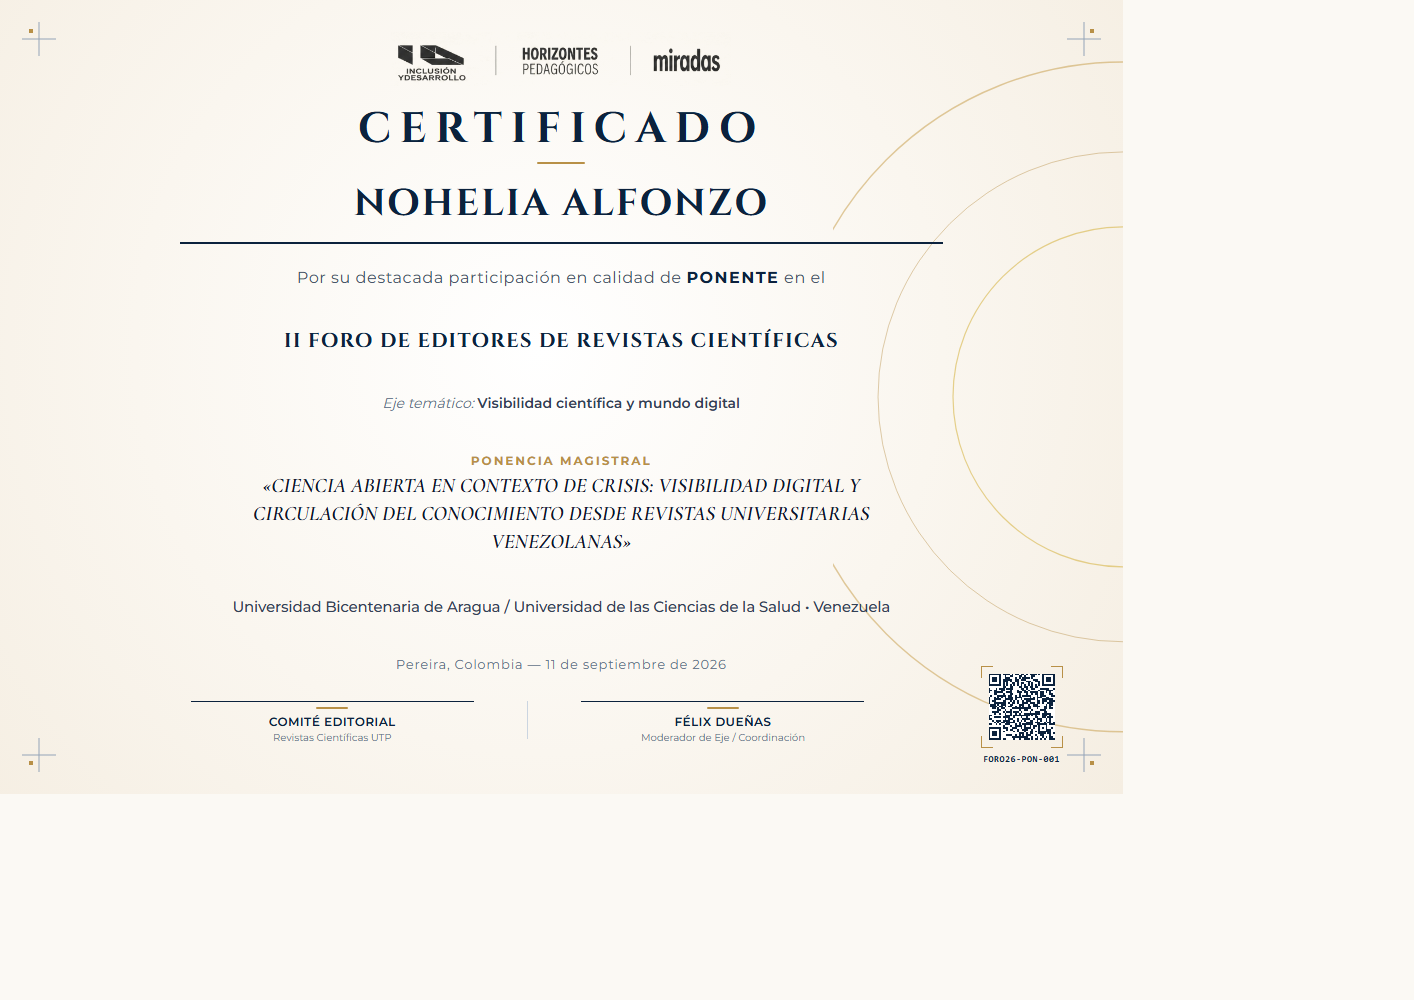
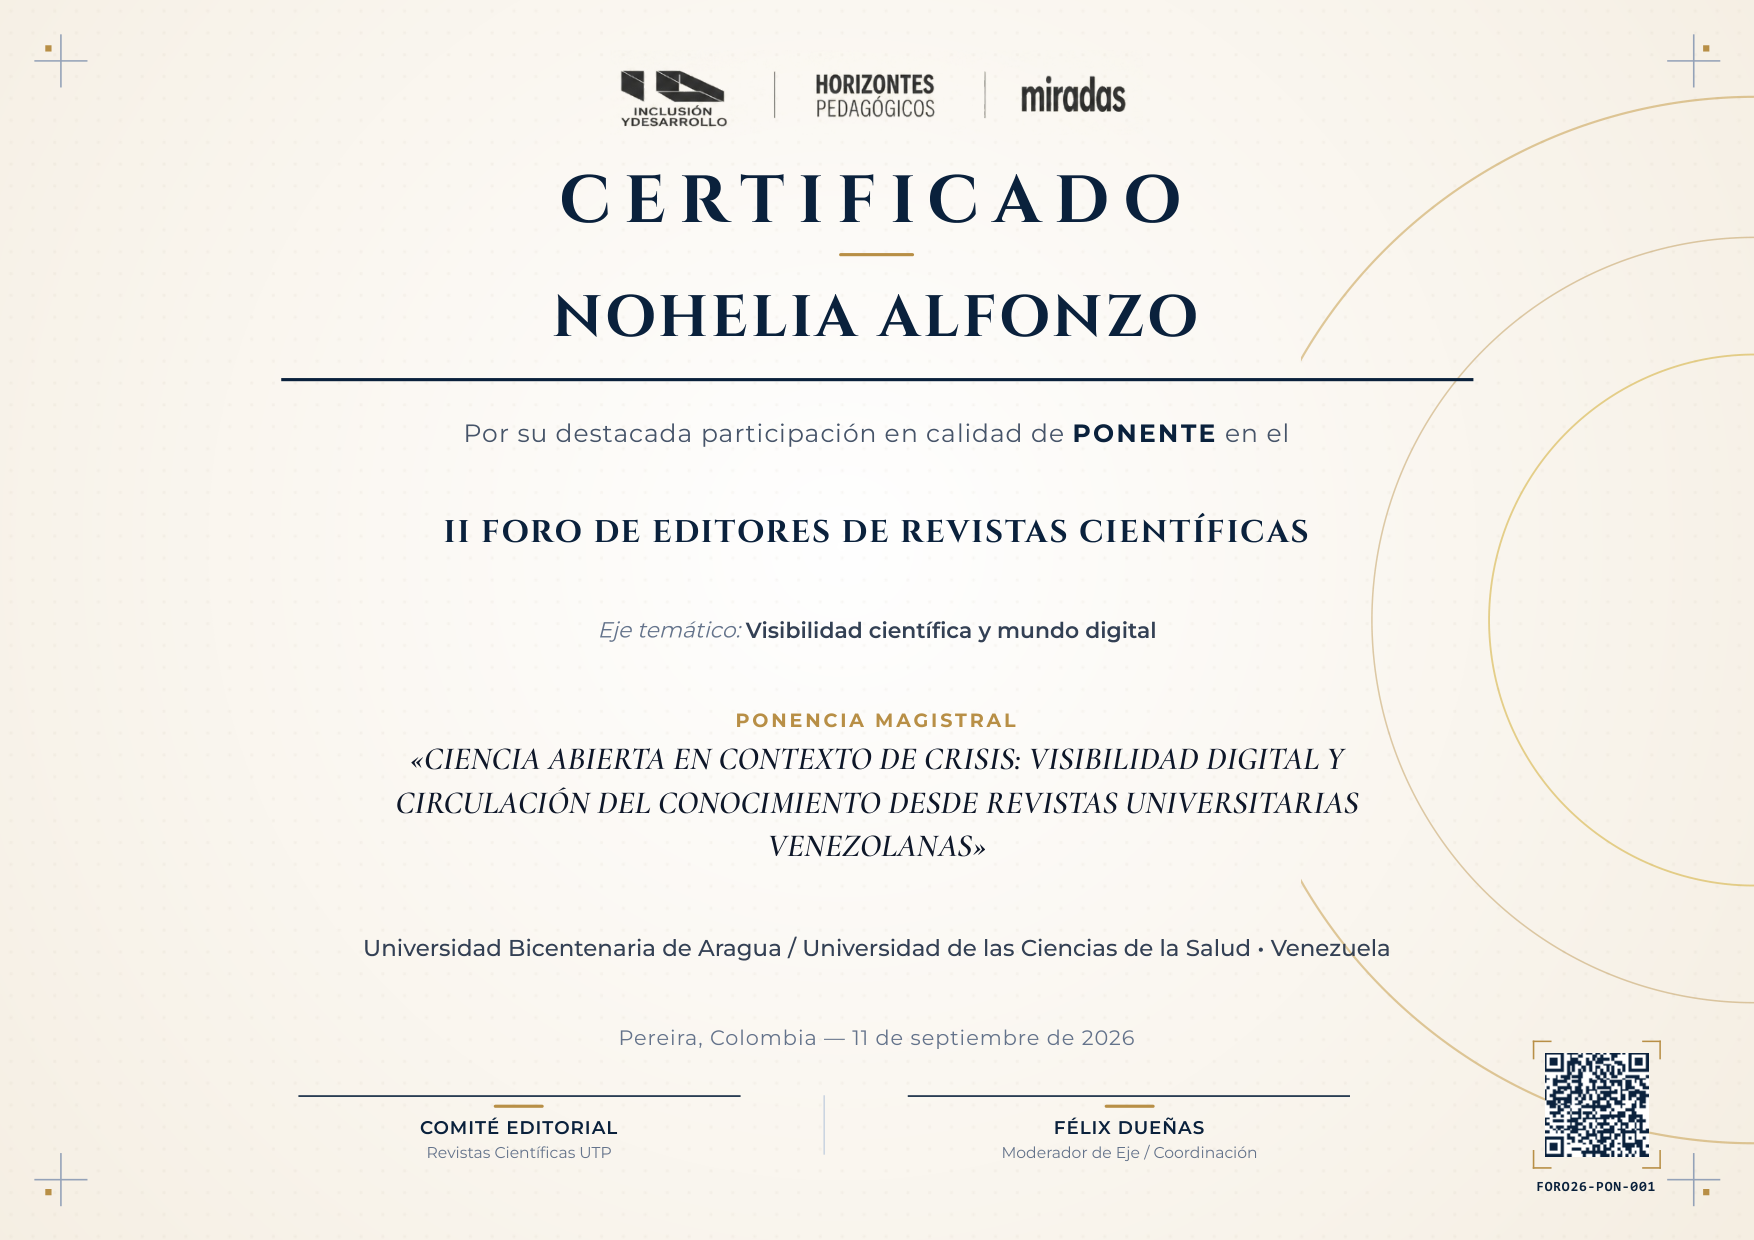
fix: remove quick test codes to protect privacy and generate exact PDF-identical previews

diff --git a/index.html b/index.html
@@ -3,7 +3,7 @@
 <head>
   <meta charset="UTF-8">
   <meta name="viewport" content="width=device-width, initial-scale=1.0">
-  <title>Portal Oficial de Verificaci?n | II Foro de Editores de Revistas Cient&iacute;ficas</title>
+  <title>Portal Oficial de Verificaci&oacute;n | II Foro de Editores de Revistas Cient&iacute;ficas</title>
   <link rel="preconnect" href="https://fonts.googleapis.com">
   <link rel="preconnect" href="https://fonts.gstatic.com" crossorigin>
   <link href="https://fonts.googleapis.com/css2?family=Cinzel:wght@600;700;800&family=Cormorant+Garamond:ital,wght@0,600;1,500;1,600&family=Montserrat:wght@400;500;600;700&display=swap" rel="stylesheet">
@@ -709,7 +709,7 @@
   <header>
     <!-- JOURNAL LOGOS -->
     <div class="logos-capsule">
-      <img src="assets/logos_clean.png" alt="Inclusi?n y Desarrollo | Horizontes Pedag?gicos | Miradas UTP">
+      <img src="assets/logos_clean.png" alt="Inclusi&oacute;n y Desarrollo | Horizontes Pedag&oacute;gicos | Miradas UTP">
     </div>
     <h1>II FORO DE EDITORES DE REVISTAS CIENT&Iacute;FICAS</h1>
     <p>Portal Oficial de Consulta y Validaci&oacute;n de Autenticidad de Certificados Acad&eacute;micos</p>
@@ -722,18 +722,12 @@
         <div class="search-icon">
           <svg width="20" height="20" fill="none" stroke="currentColor" viewBox="0 0 24 24"><path stroke-linecap="round" stroke-linejoin="round" stroke-width="2.2" d="M21 21l-6-6m2-5a7 7 0 11-14 0 7 7 0 0114 0z"></path></svg>
         </div>
-        <input type="text" id="certInput" class="search-input" placeholder="Ingresa el c?digo del certificado (ej. FORO26-PON-001)" required autocomplete="off" spellcheck="false">
+        <input type="text" id="certInput" class="search-input" placeholder="Ingresa el c&oacute;digo del certificado (ej. FORO-XXXX-XXX)" required autocomplete="off" spellcheck="false">
         <button type="submit" class="search-btn">
           <span>Consultar</span>
           <svg width="16" height="16" fill="none" stroke="currentColor" viewBox="0 0 24 24"><path stroke-linecap="round" stroke-linejoin="round" stroke-width="2.5" d="M14 5l7 7m0 0l-7 7m7-7H3"></path></svg>
         </button>
       </form>
-
-      <div class="quick-examples">
-        <span>C&oacute;digos de prueba r&aacute;pida:</span>
-        <button type="button" class="sample-pill" onclick="searchSample('FORO26-PON-001')">FORO26-PON-001</button>
-        <button type="button" class="sample-pill" onclick="searchSample('FORO26-PON-002')">FORO26-PON-002</button>
-      </div>
     </div>
 
     <!-- RESULT CONTAINER -->
@@ -792,20 +786,15 @@
       return list.find(c => c.id.toUpperCase() === clean);
     }
 
-    function searchSample(code) {
-      document.getElementById('certInput').value = code;
-      handleSearch();
-    }
-
     function togglePreview() {
       const box = document.getElementById('previewBox');
       const btn = document.getElementById('previewBtn');
       if (box.classList.contains('active')) {
         box.classList.remove('active');
-        btn.innerHTML = '<span>Ver vista previa del documento</span> ?';
+        btn.innerHTML = '<span>Ver vista previa del documento</span> <svg width="16" height="16" fill="none" stroke="currentColor" viewBox="0 0 24 24"><path stroke-linecap="round" stroke-linejoin="round" stroke-width="2.5" d="M19 9l-7 7-7-7"/></svg>';
       } else {
         box.classList.add('active');
-        btn.innerHTML = '<span>Ocultar vista previa</span> ?';
+        btn.innerHTML = '<span>Ocultar vista previa</span> <svg width="16" height="16" fill="none" stroke="currentColor" viewBox="0 0 24 24"><path stroke-linecap="round" stroke-linejoin="round" stroke-width="2.5" d="M5 15l7-7 7 7"/></svg>';
       }
     }
 
@@ -813,7 +802,7 @@
       const url = `${window.location.origin}${window.location.pathname}?id=${id}`;
       navigator.clipboard.writeText(url).then(() => {
         const btn = document.getElementById('copyBtn');
-        btn.innerHTML = '? ?Enlace copiado!';
+        btn.innerHTML = '<svg width="18" height="18" fill="none" stroke="currentColor" viewBox="0 0 24 24"><path stroke-linecap="round" stroke-linejoin="round" stroke-width="2.5" d="M5 13l4 4L19 7"/></svg> &iexcl;Enlace copiado!';
         setTimeout(() => {
           btn.innerHTML = '<svg width="18" height="18" fill="none" stroke="currentColor" viewBox="0 0 24 24"><path stroke-linecap="round" stroke-linejoin="round" stroke-width="2" d="M8 16H6a2 2 0 01-2-2V6a2 2 0 012-2h8a2 2 0 012 2v2m-6 12h8a2 2 0 002-2v-8a2 2 0 00-2-2h-8a2 2 0 00-2 2v8a2 2 0 002 2z"></path></svg> Copiar Enlace';
         }, 2200);
@@ -827,16 +816,18 @@
           <div class="result-card">
             <div class="status-banner invalid">
               <div class="status-left">
-                <div class="status-icon-circle">?</div>
+                <div class="status-icon-circle">
+                  <svg width="22" height="22" fill="none" stroke="currentColor" viewBox="0 0 24 24"><path stroke-linecap="round" stroke-linejoin="round" stroke-width="2.5" d="M12 9v2m0 4h.01m-6.938 4h13.856c1.54 0 2.502-1.667 1.732-3L13.732 4c-.77-1.333-2.694-1.333-3.464 0L3.34 16c-.77 1.333.192 3 1.732 3z"/></svg>
+                </div>
                 <div class="status-info">
                   <h2>CERTIFICADO NO ENCONTRADO</h2>
-                  <p>El c?digo no coincide con ning?n registro oficial emitido.</p>
+                  <p>El c&oacute;digo ingresado no coincide con ning&uacute;n registro oficial emitido.</p>
                 </div>
               </div>
             </div>
             <div class="card-body" style="text-align:center; padding: 2.4rem 1.5rem;">
-              <p style="color: var(--text-muted); max-width: 500px; margin: 0 auto 1.4rem auto; font-size: 0.95rem;">
-                Por favor verifique que el c?digo est? escrito exactamente como figura bajo el c?digo QR de su documento (ej. <strong>FORO26-PON-001</strong>).
+              <p style="color: var(--text-muted); max-width: 520px; margin: 0 auto 1.4rem auto; font-size: 0.95rem;">
+                Por favor verifique que el c&oacute;digo est&eacute; escrito exactamente como figura bajo el c&oacute;digo QR de su documento oficial.
               </p>
             </div>
           </div>
@@ -916,7 +907,7 @@
             <!-- EMBEDDED VISUAL PREVIEW TOGGLE -->
             <div class="preview-accordion">
               <button type="button" id="previewBtn" class="preview-toggle-btn" onclick="togglePreview()">
-                <span>Ver vista previa del documento</span> ?
+                <span>Ver vista previa del documento</span> <svg width="16" height="16" fill="none" stroke="currentColor" viewBox="0 0 24 24"><path stroke-linecap="round" stroke-linejoin="round" stroke-width="2.5" d="M19 9l-7 7-7-7"/></svg>
               </button>
               <div id="previewBox" class="preview-img-box">
                 <img src="${previewUrl}" alt="Certificado ${cert.nombre}">

diff --git a/scripts/generator.py b/scripts/generator.py
@@ -1,7 +1,9 @@
 # -*- coding: utf-8 -*-
 import os
 import json
+import html
 import subprocess
+import pymupdf
 
 BASE = r"c:\Users\Lenovo\Desktop\Juan\sistema_certificados"
 CHROME = r"C:\Program Files\Google\Chrome\Application\chrome.exe"
@@ -9,19 +11,19 @@ EDGE = r"C:\Program Files (x86)\Microsoft\Edge\Application\msedge.exe"
 BROWSER = CHROME if os.path.exists(CHROME) else EDGE
 BASE_WEB_URL = "https://juannietoval.github.io/certificaci-n-II-foro"
 
-def escape_html(text):
-    if not isinstance(text, str):
-        return str(text)
-    return (text.replace("&", "&amp;")
-                .replace("?", "&aacute;").replace("?", "&eacute;").replace("?", "&iacute;").replace("?", "&oacute;").replace("?", "&uacute;")
-                .replace("?", "&Aacute;").replace("?", "&Eacute;").replace("?", "&Iacute;").replace("?", "&Oacute;").replace("?", "&Uacute;")
-                .replace("?", "&ntilde;").replace("?", "&Ntilde;"))
+def clean_val(val, default=""):
+    if val is None:
+        return default
+    text = str(val).strip()
+    return html.escape(text)
 
 def generate_all():
-    with open(os.path.join(BASE, "templates", "master_template.html"), "r", encoding="utf-8") as f:
+    template_path = os.path.join(BASE, "templates", "master_template.html")
+    with open(template_path, "r", encoding="utf-8") as f:
         template = f.read()
 
-    with open(os.path.join(BASE, "data", "participantes.json"), "r", encoding="utf-8") as f:
+    data_path = os.path.join(BASE, "data", "participantes.json")
+    with open(data_path, "r", encoding="utf-8") as f:
         participantes = json.load(f)
 
     for p in participantes:
@@ -32,15 +34,15 @@ def generate_all():
 
         cert_html = template
         cert_html = cert_html.replace("{{ID}}", cert_id)
-        cert_html = cert_html.replace("{{NOMBRE}}", escape_html(nombre))
-        cert_html = cert_html.replace("{{ROL}}", escape_html(p.get("rol", "PONENTE")))
-        cert_html = cert_html.replace("{{TITULO}}", escape_html(p.get("titulo", "")))
-        cert_html = cert_html.replace("{{EJE}}", escape_html(p.get("eje", "")))
-        cert_html = cert_html.replace("{{INSTITUCION}}", escape_html(p.get("institucion", "")))
-        cert_html = cert_html.replace("{{PAIS}}", escape_html(p.get("pais", "")))
-        cert_html = cert_html.replace("{{CIUDAD}}", escape_html(p.get("ciudad", "")))
-        cert_html = cert_html.replace("{{FECHA}}", escape_html(p.get("fecha", "")))
-        cert_html = cert_html.replace("{{MODERADOR}}", escape_html(p.get("moderador", "Comit? Organizador")))
+        cert_html = cert_html.replace("{{NOMBRE}}", clean_val(nombre))
+        cert_html = cert_html.replace("{{ROL}}", clean_val(p.get("rol", "PONENTE")))
+        cert_html = cert_html.replace("{{TITULO}}", clean_val(p.get("titulo", "")))
+        cert_html = cert_html.replace("{{EJE}}", clean_val(p.get("eje", "")))
+        cert_html = cert_html.replace("{{INSTITUCION}}", clean_val(p.get("institucion", "")))
+        cert_html = cert_html.replace("{{PAIS}}", clean_val(p.get("pais", "")))
+        cert_html = cert_html.replace("{{CIUDAD}}", clean_val(p.get("ciudad", "")))
+        cert_html = cert_html.replace("{{FECHA}}", clean_val(p.get("fecha", "")))
+        cert_html = cert_html.replace("{{MODERADOR}}", clean_val(p.get("moderador", "Comité Organizador")))
 
         html_file = os.path.abspath(os.path.join(BASE, "templates", f"{cert_id}.html"))
         with open(html_file, "w", encoding="utf-8") as f_out:
@@ -57,18 +59,18 @@ def generate_all():
         ]
         subprocess.run(cmd_pdf, capture_output=True, text=True)
 
+        # Generate exact high-resolution preview directly from the generated PDF
         png_file = os.path.abspath(os.path.join(BASE, "output", "preview", f"{cert_id}_preview.png"))
-        cmd_png = [
-            BROWSER,
-            "--headless",
-            "--disable-gpu",
-            "--window-size=1414,1000",
-            "--hide-scrollbars",
-            f"--screenshot={png_file}",
-            f"file:///{html_file}"
-        ]
-        subprocess.run(cmd_png, capture_output=True, text=True)
-        print(f"Generated Vector Certificate: {cert_id} - {nombre}")
+        try:
+            doc = pymupdf.open(pdf_file)
+            page = doc[0]
+            pix = page.get_pixmap(dpi=150)
+            pix.save(png_file)
+            doc.close()
+        except Exception as e:
+            print(f"Warning: Could not render PDF preview with PyMuPDF: {e}")
+
+        print(f"Generated Vector Certificate & Exact Preview: {cert_id} - {nombre}")
 
 if __name__ == "__main__":
     generate_all()
